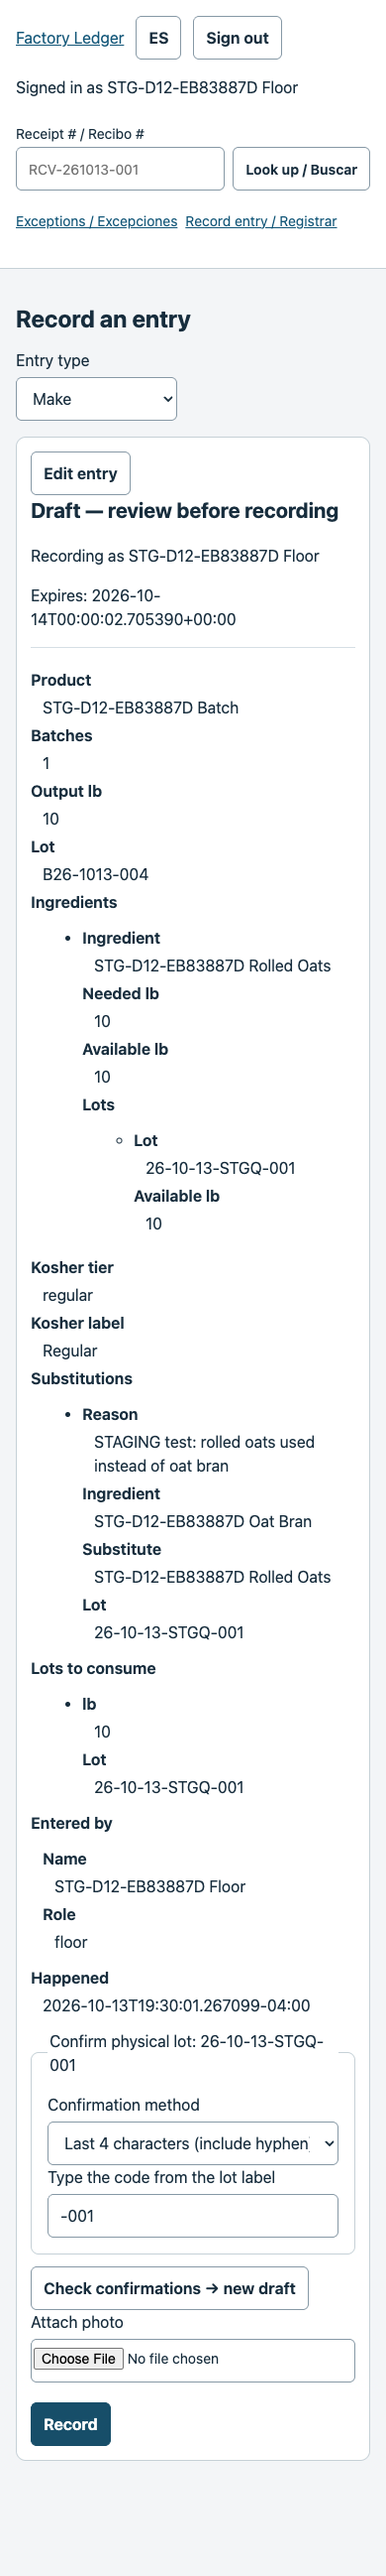
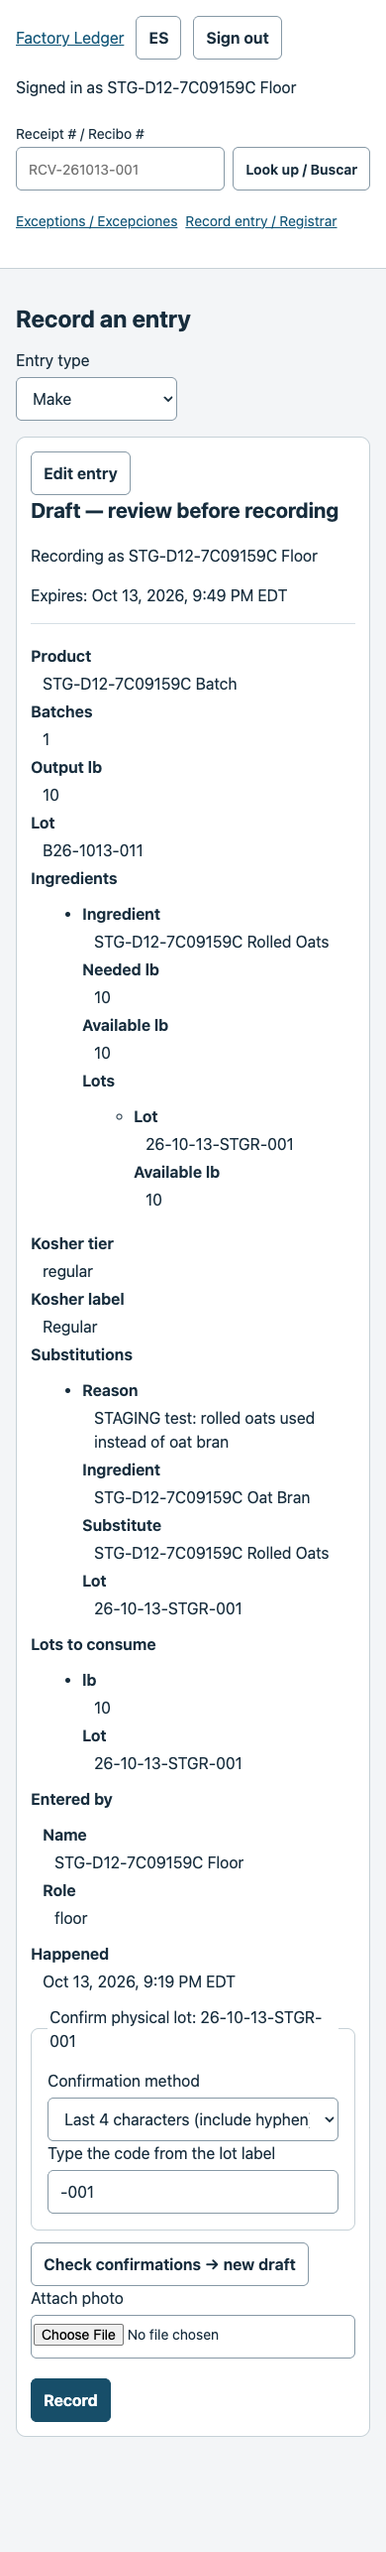
docs(validation): D1/D2 fix round 1 evidence and backend dependencies

diff --git a/docs/validation/dashboard-d1-d2.md b/docs/validation/dashboard-d1-d2.md
@@ -59,3 +59,35 @@ Evidence: [receive draft](d12-staging/receive-draft-390.png), [receive recorded]
 - After A5 supplier-lot reaches main: rebase, rerun actual identify/commit/automatic exception closure and LOT receipt lookup. No direct-route workaround exists.
 - A3b's non-ticketed counted-resolution/XR and missing held/legacy-void receipt gaps remain upstream, as described under Part 1.
 - Hosted deployment of the final branch and broad owner acceptance are separate from this browser-overlay staging walkthrough. No production action is included.
+
+## Review fix round 1 (Claude Code review, comment 6157664298)
+
+Rebased onto `origin/main` 1a423f7 (A5 part 2, #106). Builder for this round: Claude Code. Presentation only — FL still enforces every permission and rule.
+
+| # | Fix | Node regression | Browser regression (`run-d12-fixes.mjs`, real local FastAPI) |
+|---|-----|-----------------|------|
+| 0 | "Identify supplier lot" runs live `POST /lots/{lot_id}/supplier-lot/prepare` → `/tickets/{t}/commit`, shows `resolved_exception_ids` | route + field wiring | floor, 390 px: LOT receipt green; "Resolved exception #N"; exception now `resolved`; no second `/resolve` call |
+| 1 | `/resolve` and `/reject` never green, never the source receipt; neutral "Resolved / Waived / Rejected — no new receipt"; only an `/approve` ticket receipt is green | `decisionOutcome` | real SHORTAGE from a make (`MK-…`), resolved *counted 0*: neutral notice, no `MK-…`, no green anywhere |
+| 2 | Choices from `allowed_resolutions` when FL returns it; otherwise owner-only choices hidden via `/auth/whoami` `permissions.approve_exception` / `resolve_exception` | `resolutionChoices` | floor: LARGE_CORRECTION shows "The owner decides it" (no approve/reject); UNIDENTIFIED_LOT offers only "Identify supplier lot" |
+| 3 | Owner approve note optional (blank omitted → `{}`); reject, write-off and waive require a note | `decisionRequest`, `noteRequired` | owner, 1280 px, Spanish: reject with blank note blocked by the form; blank approve sends `{}` and shows green `ADJ-…` |
+| 4 | Receipt page: VOIDED / PARTLY VOIDED (grey) from FL's per-entry `effective_status`, never green; shows the VD receipt when FL returns one | `receiptState` | `ADJ-…` voided via legacy `/void`: `VOIDED —` / `ANULADO —`, no green; a live `MK-…` still green |
+| 5 | Plain timeout / lost-connection wording; red banner cleared when the same-ticket retry records | `transportText` | commit answered after 21 s: plain text (no "signal"/"abort"), never green; retry replays the receipt, banner hidden, exactly 2 commit requests |
+| 6 | EN/ES relabels in place; half-filled form and open draft survive | `draftHtml` carries both labels; no re-render on switch | adjust form keeps lot, −1 lb, reason, note across EN→ES; open draft survives ES→EN with English labels |
+
+Before/after: the 7 new Node tests fail on 71125d9's dashboard files and pass now. The browser runner, run block by block against 71125d9's dashboard files on a fresh DB, fails in all four blocks and passes on this head.
+
+Existing runners updated for the new truth: `run-d12` now expects the live supplier-lot draft (was the pre-#106 404); `run-d2` expects the open draft to survive the language switch and the plain lost-connection wording.
+
+### Verification (2026-10-13)
+
+- Fresh local DB `fl_d12_fix1_final2` (pg_trgm + `tests/schema/schema.sql`): **2,796 Python passed, 1 failed** — `test_shift_summary.py::test_hash_is_deterministic_and_covers_only_receipt_rows`, which moves the plant clock +3 h and fails when run after 21:00 ET (the run was at 21:17 ET). Neither that test nor `shift_summary.py` differs from `origin/main`.
+- Node: **119 passed**, 0 failed/skipped.
+- Browser, fresh `fl_d12_browser_*` DBs, Chrome: `run-d12`, `run-d2`, `run-d12-auth`, `run-d12-fixes` (sessions on) and `run-d12-auth-off` (sessions off) all pass.
+- Hosted staging (branch assets over the staging API, no deploy): receive + make substitution passed — **RCV-261013-013**, **MK-261013-013**; synthetic actor deactivated. The staging runner does not exercise the Exceptions page.
+
+### Waiting on the backend PR (minimal fields)
+
+- `GET /exceptions/{id}` → `allowed_resolutions: [kind, …]` for the signed-in person (computed in FL with `permissions.allowed`). The page already prefers it. Until then the browser keeps FL's kind list and hides only what `/auth/whoami` denies, so floor can still see e.g. "Acknowledge" on LATE_ENTRY or "Attach BOL photo" (owner-only kinds) and FL answers 403.
+- Ticketed exception resolution with an `XR-…` receipt (the counted adjust currently posts with no receipt). When `/resolve` returns a receipt for that action, the page will show it green; until then it shows the neutral "no new receipt" state.
+- `void_receipt_number` (a `VD-…` from a ticketed void) on `GET /receipts/{n}`; and ideally a receipt-level `effective_status`. The page already renders both when present.
+- `DecisionRequest` accepting a blank approve note — not needed by this page (it omits a blank note), but keeps other clients consistent.

diff --git a/CHANGE_LOG.md b/CHANGE_LOG.md
@@ -1,5 +1,12 @@
 # Change Log
 
+## 2026-10-13 22:36 — Retain prior validation notes while rebasing PR 107 onto resolution-receipt main
+- **File(s) changed:** `CHANGE_LOG.md`
+- **What changed:** Retain prior validation notes while rebasing PR 107 onto resolution-receipt main
+- **Why:** D1/D2 dashboard implementation and verification; no production changes.
+
+---
+
 ## 2026-10-13 22:36 — Preserve dashboard review fixes and all upstream log history on 901ad5c
 - **File(s) changed:** `CHANGE_LOG.md`
 - **What changed:** Preserve dashboard review fixes and all upstream log history on 901ad5c
@@ -17,6 +24,13 @@
 ## 2026-10-13 22:33 — Rebase D1 onto merged resolution receipts; preserve both change-log histories
 - **File(s) changed:** `CHANGE_LOG.md`
 - **What changed:** Rebase D1 onto merged resolution receipts; preserve both change-log histories
+## 2026-10-13 21:19 — Record D1/D2 fix-round evidence, refreshed staging run and backend dependencies
+- **File(s) changed:** `docs/validation/dashboard-d1-d2.md`, `docs/validation/d12-staging/evidence.json`, `docs/validation/d12-staging/*.png`
+- **What changed:** Added the fix-round table (fixes 0–6 with their Node and browser regressions and before/after results), fresh-DB totals (2,796 Python passed, 1 clock-dependent failure unrelated to this PR; 119 Node), all five browser runners passing, and the staging overlay rerun (RCV-261013-013, MK-261013-013). Listed the minimal backend fields still owed: `allowed_resolutions`, XR resolution receipts, `void_receipt_number`.
+- **Why:** PR #107 review fix round 1 evidence. No production changes.
+
+---
+
 ## 2026-10-13 21:06 — D1/D2 review fix round 1: truthful exception outcomes, role-filtered choices, VOIDED receipts, plain timeouts, EN/ES keeps forms
 - **File(s) changed:** `dashboard/ledger-ui.js`, `dashboard/ledger-ticket.js`, `dashboard/exceptions.js`, `dashboard/receipt.js`, `dashboard/entry.js`, `dashboard/ledger-forms.css`, 12 dashboard HTML cache-bust tags, `tests/test_d12_ui.js`, `tests/visual/run-d12-fixes.mjs`, `tests/visual/run-d12.mjs`, `tests/visual/run-d2.mjs`
 - **What changed:** (0) the exception "Identify supplier lot" form runs the live A5 `/lots/{id}/supplier-lot/prepare` → ticket commit and shows FL's `resolved_exception_ids`. (1) /resolve and /reject outcomes show a neutral "Resolved / Waived / Rejected — no new receipt" state; only an /approve ticket receipt is green, and the source entry's receipt is never shown as this action's. (2) Resolution choices come from `allowed_resolutions` when FL returns it, otherwise owner-only choices are hidden using `/auth/whoami` permissions. (3) Owner approve note is optional and omitted when blank; reject, write-off and waive require a note. (4) Receipt page shows VOIDED / PARTLY VOIDED (grey, never green) from FL's per-entry effective_status, plus the VD receipt when FL returns one. (5) A 20 s timeout or a lost connection shows plain wording, never raw browser text, and the red banner clears when the same-ticket retry records. (6) The EN/ES switch relabels in place, keeping the half-filled entry form and any open draft. Runners updated: D1 now expects the live supplier-lot draft; D2 expects the open draft to survive the language switch and the plain lost-connection text.
